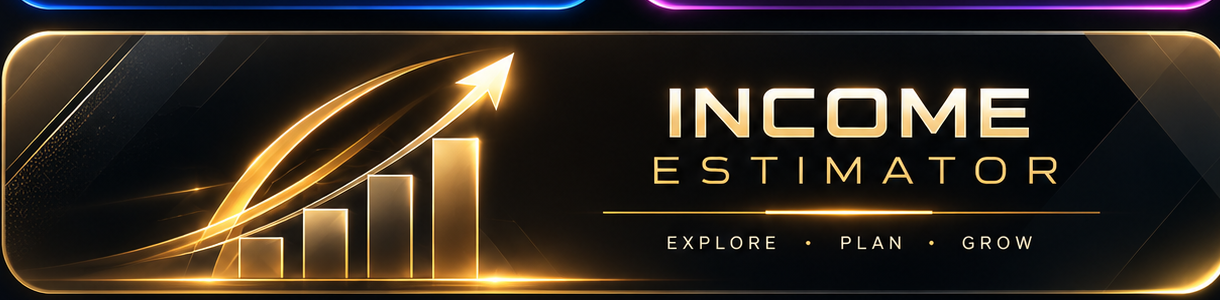
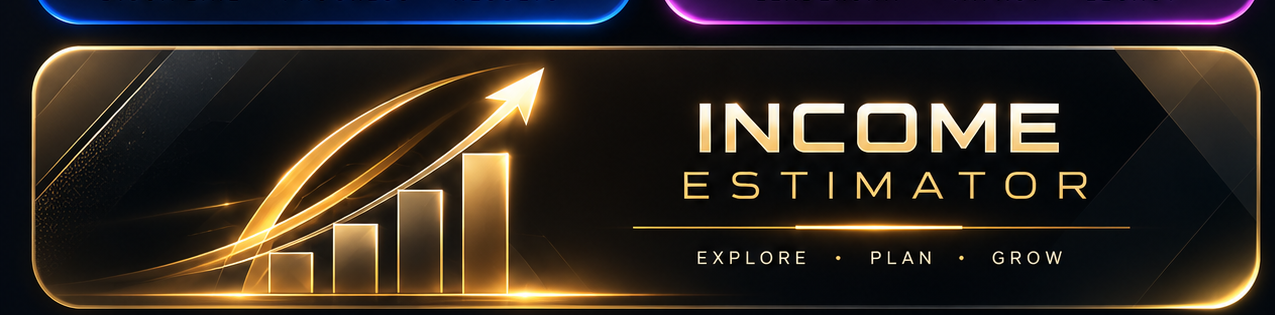
Add files via upload

diff --git a/index.html b/index.html
@@ -9,25 +9,11 @@
 <style>
 :root{--bg:#0b1220;--panel:#111c2e;--panel2:#16243a;--text:#f5f7fb;--muted:#9aa9bd;--line:#26364d;--green:#2fb344;--yellow:#f2c94c;--gray:#536174;--gold:#ffd166}
 *{box-sizing:border-box}body{margin:0;background:var(--bg);color:var(--text);font-family:-apple-system,BlinkMacSystemFont,"Segoe UI",Arial,sans-serif}.wrap{max-width:760px;margin:auto;padding:10px}header{display:flex;justify-content:space-between;align-items:center;margin-bottom:9px}h1{font-size:22px;margin:0}.sub,.note{font-size:11px;color:var(--muted)}button{font:inherit;cursor:pointer}.top{background:var(--panel2);color:#fff;border:1px solid var(--line);border-radius:9px;padding:7px 10px}.screen{display:none}.screen.active{display:block}.home-grid{display:grid;grid-template-columns:repeat(2,1fr);gap:10px}
-.tile{
-  position:relative;aspect-ratio:1;border:1px solid rgba(130,220,255,.38);
-  border-radius:22px;overflow:hidden;cursor:pointer;padding:0;background:#07111f;
-  box-shadow:0 10px 30px rgba(0,0,0,.28),inset 0 1px 0 rgba(255,255,255,.16);
-  transition:transform .16s ease,box-shadow .16s ease,filter .16s ease;
-}
-.tile:hover,.tile:active{
-  transform:translateY(-2px);
-  box-shadow:0 14px 36px rgba(0,0,0,.34),0 0 22px rgba(50,190,255,.18);
-  filter:brightness(1.06);
-}
-.tile::after{
-  content:"";position:absolute;inset:0;
-  background:linear-gradient(135deg,rgba(255,255,255,.08),transparent 35%,transparent 70%,rgba(255,255,255,.04));
-  pointer-events:none;
-}
-.tile-pv,.tile-team,.tile-run,.tile-plus,.tile-income{
-  background-size:cover;background-position:center;
-}
+
+.tile{position:relative;aspect-ratio:1;border:1px solid rgba(130,220,255,.38);border-radius:22px;overflow:hidden;cursor:pointer;padding:0;background:#07111f;box-shadow:0 10px 30px rgba(0,0,0,.28),inset 0 1px 0 rgba(255,255,255,.16);transition:transform .16s ease,box-shadow .16s ease,filter .16s ease}
+.tile:hover,.tile:active{transform:translateY(-2px);box-shadow:0 14px 36px rgba(0,0,0,.34),0 0 22px rgba(50,190,255,.18);filter:brightness(1.06)}
+.tile::after{content:"";position:absolute;inset:0;background:linear-gradient(135deg,rgba(255,255,255,.08),transparent 35%,transparent 70%,rgba(255,255,255,.04));pointer-events:none}
+.tile-pv,.tile-team,.tile-run,.tile-plus,.tile-income{background-size:100% 100%;background-repeat:no-repeat;background-position:center}
 .tile-pv{background-image:url('tile-points.png');border-color:#2999ff}
 .tile-team{background-image:url('tile-team.png');border-color:#19e7e2}
 .tile-run{background-image:url('tile-run.png');border-color:#318cff}

diff --git a/sw.js b/sw.js
@@ -1,4 +1,4 @@
-const C='business-owner-v4-5-2';
+const C='business-owner-v4-6';
 const A=['./','./index.html','./manifest.json','./tile-points.png','./tile-team.png','./tile-run.png','./tile-plus.png','./tile-income.png'];
 self.addEventListener('install',e=>e.waitUntil(caches.open(C).then(c=>c.addAll(A)).then(()=>self.skipWaiting())));
 self.addEventListener('activate',e=>e.waitUntil(self.clients.claim()));

diff --git a/README.md b/README.md
@@ -1,28 +1,17 @@
-# Business Owner App v4.5
+# Business Owner App v4.6
 
-Futuristic tile redesign:
-- High-end dark glass/neon visual treatment.
-- 100–300 Points: electric blue.
-- Team of 10: cyan/teal.
-- Platinum Run: blue.
-- Platinum+: violet/magenta.
-- Income Estimator: amber/gold.
-- Tile artwork is optimized local image assets for crisp, non-pixelated visuals.
-- Whole tile remains the button.
-- All v4.4 functionality is retained.
+Clean GitHub-ready build.
 
+- Business Owner terminology throughout.
+- Points instead of PV.
+- Team of 10 uses FILTERING.
+- Futuristic dark/neon tile design.
+- Runner and diamond artwork recropped with full artwork visible.
+- Income Estimator tile.
+- CNA onboarding link.
+- Current-month calendar only.
+- Share Previous Month / Share Previous Week image reports.
+- Team password is not displayed in the interface.
+- Fresh service-worker cache: business-owner-v4-6.
 
-## GitHub Pages
-
-Upload the contents of this folder to the root of your GitHub repository, then enable
-GitHub Pages from **Settings → Pages → Deploy from a branch → main → /(root)**.
-
-The app is a static client-side app. The Team of 10 password is stored in the JavaScript,
-so it is a convenience gate, **not a secure password system**. Anyone who can inspect the
-published source can discover it. Do not use it to protect confidential information.
-
-
-v4.5.2:
-- Removed the visible Team of 10 password from the Team screen.
-- The password prompt remains intentional and appears only when Team of 10 is opened.
-- The password itself is not displayed in the interface.
+Upload the CONTENTS of this folder to the ROOT of the GitHub repository. Do not upload the ZIP itself or put the files inside another folder.
